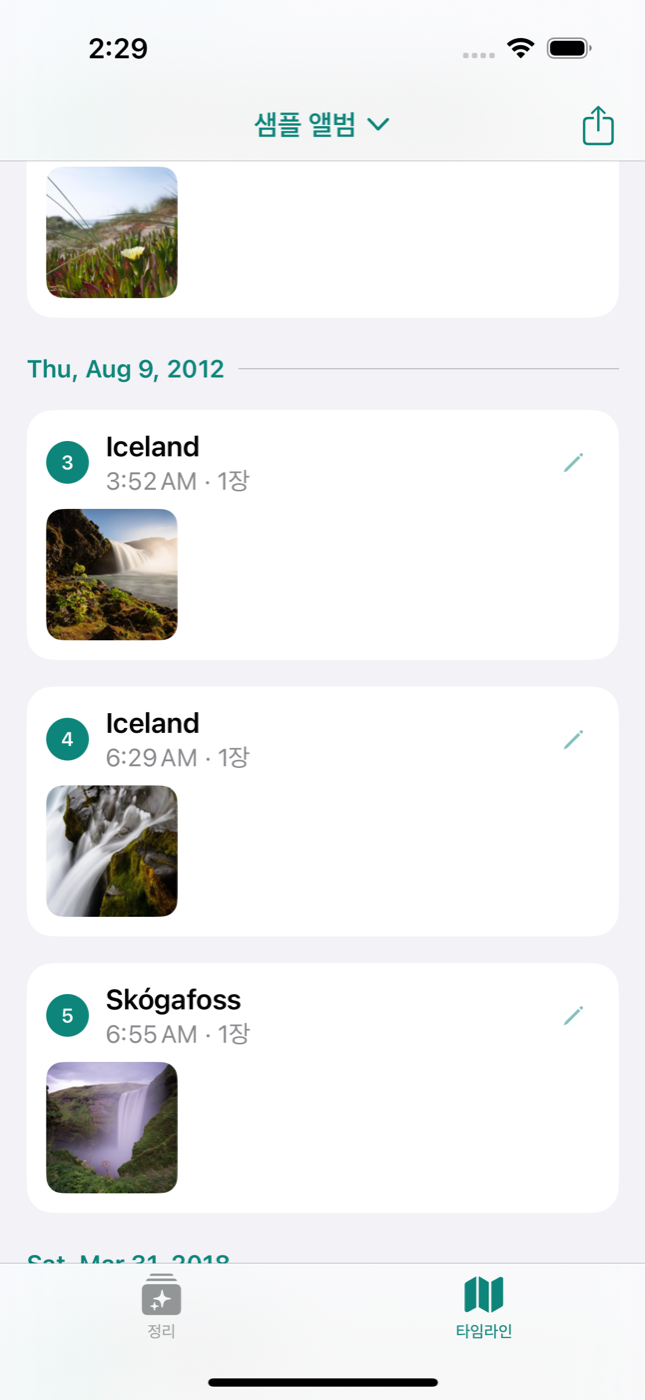
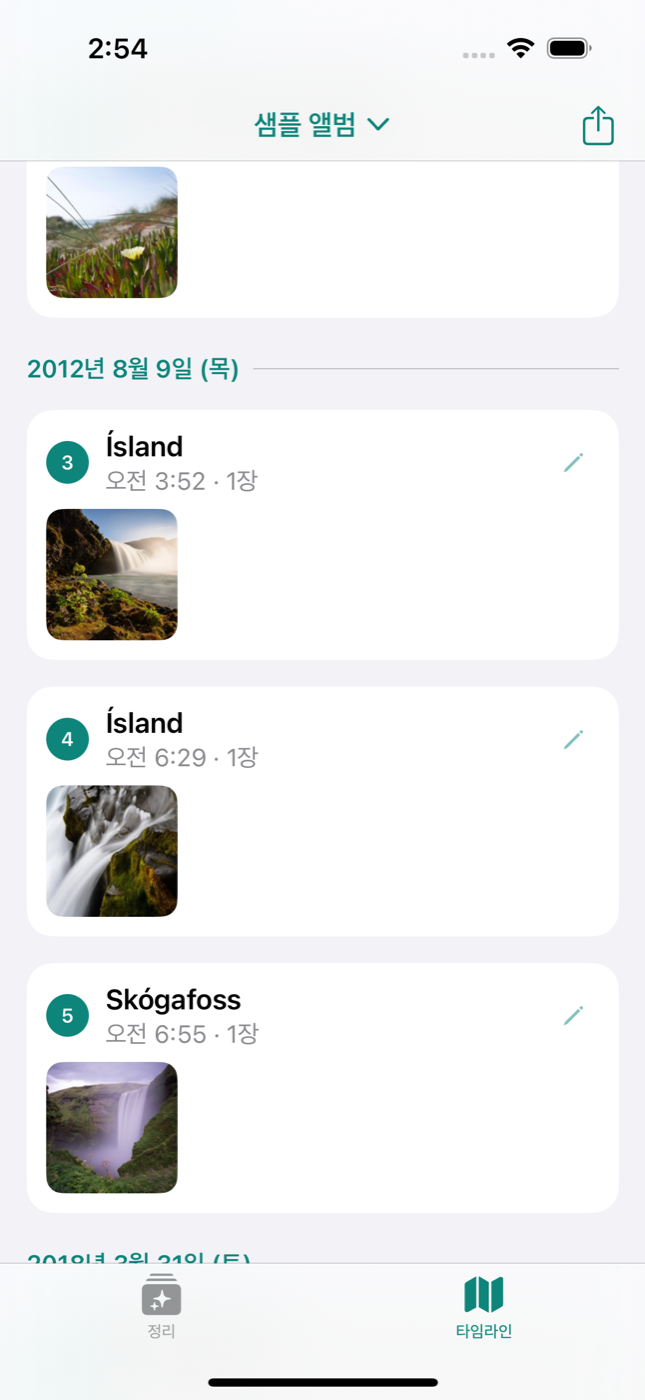
캡처 전체 갱신, 앱 기본 언어를 한국어로
- project.yml developmentLanguage: ko (뒤로, 공유 창 등 시스템 글자 한국어)
- 화면 테스트를 한국어 지역으로 실행해 날짜·시각이 한국어로 찍히게 함
- docs/screenshots 19장 갱신

diff --git a/PhotoTidyUITests/SmokeTests.swift b/PhotoTidyUITests/SmokeTests.swift
@@ -6,6 +6,11 @@ final class SmokeTests: XCTestCase {
     private let app = XCUIApplication()
     private let springboard = XCUIApplication(bundleIdentifier: "com.apple.springboard")
 
+    /// 캡처가 한국어 날짜·시각으로 나오도록 앱을 한국어 지역으로 띄운다.
+    override func setUp() {
+        app.launchArguments = ["-AppleLanguages", "(ko)", "-AppleLocale", "ko_KR"]
+    }
+
     private func shot(_ name: String) {
         let url = URL(fileURLWithPath: NSTemporaryDirectory()).appendingPathComponent("\(name).png")
         try? XCUIScreen.main.screenshot().pngRepresentation.write(to: url)
@@ -123,7 +128,7 @@ final class SmokeTests: XCTestCase {
 
     /// 앨범 전체 타임라인. 앱이 "-sampleAlbum" 인자로 사진첩 전체를 담은 "샘플 앨범"을 만든다.
     func testAlbumTimeline() {
-        app.launchArguments = ["-sampleAlbum"]
+        app.launchArguments += ["-sampleAlbum"]
         app.launch()
         grantAccessIfNeeded()
         app.tabBars.buttons["타임라인"].tap()

diff --git a/CLAUDE.md b/CLAUDE.md
@@ -21,3 +21,4 @@ Photo Tidy: 아이폰 사진첩의 비슷한 사진 정리 + 하루 타임라인
 - 화면의 SwiftUI `Map`은 `ImageRenderer`로 그림이 되지 않는다. 이미지로 내보낼 때는 `MKMapSnapshotter`로 지도 그림을 받아 핀·선을 직접 그린다(`TimelineShare.mapImage`). 만들어진 공유 이미지는 `xcrun simctl get_app_container <ID> com.heejung.phototidy data` 아래 `tmp/타임라인.jpg`.
 - 2026-11-16 전체 코드 리뷰 결과 미수정(사용자 결정 대기): 분석 기준 시각 때문에 나중에 들어온 옛 사진·건너뛴 사진이 다시 분석되지 않음(`AppModel.startAnalysis`), 공유 준비 중 날짜를 바꾸면 내용이 섞임, 직접 붙인 장소 이름 키(좌표 반올림)가 불안정, `CLGeocoder` 동시 요청 실패.
 - 배경 지식은 `llm-wiki/`(시작은 `llm-wiki/index.md`, 운영 규칙은 `llm-wiki/README.md`)에 있다. 기능·결정이 바뀌면 관련 페이지를 고치고 `llm-wiki/log.md`에 한 줄 추가할 것.
+- 앱 기본 언어는 한국어(`project.yml`의 `developmentLanguage: ko`) — 없으면 '뒤로'·공유 창 등 시스템 글자가 영어로 나온다. 화면 테스트는 `setUp`에서 한국어 지역 인자로 앱을 띄우므로, 테스트에서 글자를 찾을 때 시각은 `9:10`처럼 숫자 부분만 맞출 것(`오전 9:10`).

diff --git a/llm-wiki/testing.md b/llm-wiki/testing.md
@@ -29,6 +29,7 @@ xcodebuild test -project PhotoTidy.xcodeproj -scheme PhotoTidy \
   -destination "platform=iOS Simulator,id=$SIM" -derivedDataPath build > build.log 2>&1
 ```
 
+- 테스트는 앱을 한국어 지역(`-AppleLanguages (ko) -AppleLocale ko_KR`)으로 띄운다. 캡처의 날짜·시각이 한국어로 나온다. 시스템 알림 창(권한, 삭제 확인)은 시뮬레이터 언어를 따른다.
 - 화면 조작은 XCUITest로만 한다(이 맥은 클릭 자동화가 막혀 있음). 시스템 알림 버튼은 이름으로 찾는다.
 - 테스트가 찍은 화면은 `build.log`의 `SHOT:` 경로. 공유 이미지는 앱 컨테이너 `tmp/타임라인.jpg`.
 - "샘플 앨범"은 앱을 지워도 사진첩에 남고, 있으면 다시 채우지 않는다.

diff --git a/llm-wiki/log.md b/llm-wiki/log.md
@@ -2,6 +2,7 @@
 
 최신이 위. 형식: `날짜 | 무엇을 | 관련 페이지`.
 
+- 2026-11-16 | 앱 기본 언어를 한국어로(`developmentLanguage: ko`), 화면 테스트를 한국어 지역으로 실행, 캡처 전체 갱신 | [ui](ui.md), [testing](testing.md)
 - 2026-11-16 | README 다시 정리(기능별 소개, 표, 알려진 한계) | —
 - 2026-11-16 | 위키 처음 작성(전체 페이지) | 전체
 - 2026-11-16 | UI 다듬기(테마·카드) `1f62b08` | [ui](ui.md)
